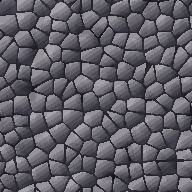
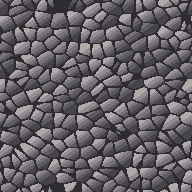
#189 ground textures: dirt and stone raised to 6+ (judged, installed)
The lowest-scoring families are the ground textures (owner: "ground
textures 3-4 first"). Rebuilt the two worst in tiles.js and installed
the blind-judged winners (old kept in spr/backup_v1):

- dirt: was pure per-pixel value-noise + single-pixel speckle clods
  (the hard-penalized "desert camouflage / TV static" look). Now broad
  trodden-earth zones in three flat tones with sparse lit-top-left /
  shaded clods, a few pebbles and short cracks. Blind critic: new 6 vs
  old 3, both slot orders.
- stone: flat near-one-tone cobbles with thin mortar read as crazy
  paving. Now each cobble gets a rounded three-tone ramp (lit top-left
  face, shaded underside) in deeper STONE[0] mortar joints. Blind
  critic: new 7 vs old 5.

Scoreboard + practice log updated. Still under 6 in this family:
sidewalk (4), grass (5), forest (5), tarmac (5) — next.

Claude-Session: https://claude.ai/code/session_01P6pGQCq2oe4GSAnTdGYxNB

diff --git a/hollow-acre/2d/tools/px/tiles.js b/hollow-acre/2d/tools/px/tiles.js
@@ -25,10 +25,19 @@ function paint(kind){const A=[];for(let y=0;y<PER;y++){A.push([]);for(let x=0;x<
     for(let i=0;i<(kind==='grass'?330:200)*(PER*PER)/4096;i++){const x=r()*PER|0,y=r()*PER|0,h=2+(r()*3|0),lean=r()<.5?0:(r()<.5?-1:1);
       for(let k=0;k<h;k++){const c=k===h-1?R[Math.min(R.length-1,b0+2)]:k===0?R[b0-1]:R[b0+1];put(x+(k===h-1?lean:0),y-k,c);}}
     if(kind==='grass')for(let i=0;i<6*(PER*PER)/4096;i++){const x=r()*PER|0,y=r()*PER|0;put(x,y,R[R.length-1]);put(x+1,y,R[5]);}}
-  if(kind==='dirt'){for(let y=0;y<PER;y++)for(let x=0;x<PER;x++){const n=vn(x,y,32)*.45+vn(x,y,8)*.35+vn(x,y,4)*.2;put(x,y,DIRT[n>.62?4:n<.36?2:3]);}
+  if(kind==='dirt'){
+    // broad trodden ground in three flat tones (coherent patches, not per-pixel grain)
+    for(let y=0;y<PER;y++)for(let x=0;x<PER;x++){const n=vn(x,y,48)*.62+vn(x,y,24)*.38;put(x,y,DIRT[n>.60?4:n<.40?2:3]);}
     let s=7;const r=()=>{s=(s*16807)%2147483647;return s/2147483647;};
-    for(let i=0;i<46*(PER*PER)/4096;i++){const x=r()*PER|0,y=r()*PER|0,big=r()<.3;put(x,y,DIRT[5]);put(x+1,y+1,DIRT[1]);if(big){put(x+1,y,DIRT[4]);put(x,y+1,DIRT[2]);}}
-    for(let i=0;i<9*(PER*PER)/4096;i++){const x=r()*PER|0,y=r()*PER|0;for(let k=0;k<4;k++)put(x+k,y+(k>1?1:0),DIRT[2]);}}
+    // sparse clods of earth: each a little mound, lit top-left, shaded under
+    for(let i=0;i<12*(PER*PER)/4096;i++){const x=r()*PER|0,y=r()*PER|0,big=r()<.4;
+      put(x,y,DIRT[4]);put(x+1,y,DIRT[3]);put(x,y+1,DIRT[2]);put(x+1,y+1,DIRT[1]);
+      if(big){put(x,y-1,DIRT[5]);put(x-1,y,DIRT[4]);put(x+2,y+1,DIRT[1]);put(x+1,y+2,DIRT[1]);}}
+    // a few embedded pebbles: a dark stone with a lit top-left corner
+    for(let i=0;i<4*(PER*PER)/4096;i++){const x=r()*PER|0,y=r()*PER|0;put(x,y,DIRT[1]);put(x+1,y,DIRT[1]);put(x,y+1,DIRT[1]);put(x+1,y+1,DIRT[0]||DIRT[1]);put(x,y,DIRT[5]);}
+    // shallow dry cracks: short dark furrows with a lit lip along the top edge
+    for(let i=0;i<5*(PER*PER)/4096;i++){const x=r()*PER|0,y=r()*PER|0,l=3+(r()*3|0),dir=r()<.5;
+      for(let k=0;k<l;k++){const px=dir?x+k:x,py=dir?y:y+k;put(px,py,DIRT[1]);put(dir?px:px-1,dir?py-1:py,DIRT[4]);}}}
   if(kind==='water'){for(let y=0;y<PER;y++)for(let x=0;x<PER;x++){const n=vn(x,y,32)*.6+vn(x,y,16)*.4;const nn=vn(x,y,8);put(x,y,n>.74&&nn>.5?WATER[3]:WATER[2]);}
     let s=5;const r=()=>{s=(s*16807)%2147483647;return s/2147483647;};
     for(let i=0;i<10*(PER*PER)/4096;i++){const x=r()*PER|0,y=r()*PER|0,l=3+(r()*4|0);for(let k=0;k<l;k++)put(x+k,y,WATER[k===0||k===l-1?4:5]);}}
@@ -36,7 +45,7 @@ function paint(kind){const A=[];for(let y=0;y<PER;y++){A.push([]);for(let x=0;x<
 function tex(x,y){
   if(K==='stone'){if(!TX.pts){let q=3;const r=()=>{q=(q*16807)%2147483647;return q/2147483647;};TX.pts=[];const g=13;for(let gy=0;gy<PER;gy+=g)for(let gx=0;gx<PER;gx+=g)TX.pts.push([gx+r()*g,gy+r()*g,r()]);}
     const bx=wrap(x),by=wrap(y);let d1=1e9,d2=1e9,best=null;for(const pt of TX.pts){for(const ox of [-PER,0,PER])for(const oy of [-PER,0,PER]){const dx=bx-(pt[0]+ox),dy=(by-(pt[1]+oy))*1.25,d=dx*dx+dy*dy;if(d<d1){d2=d1;d1=d;best=[pt,dx,dy];}else if(d<d2)d2=d;}}
-    if(Math.sqrt(d2)-Math.sqrt(d1)<1.6)return STONE[1];const [pt,dx,dy]=best;let k=pt[2]>.66?4:pt[2]>.33?3:2;const l=-dx*.5-dy*.6;if(l>3)k++;if(l<-3.5)k--;return STONE[Math.max(1,Math.min(5,k))];}
+    if(Math.sqrt(d2)-Math.sqrt(d1)<1.7)return STONE[0];const [pt,dx,dy]=best;let k=pt[2]>.66?4:pt[2]>.33?3:2;const l=-dx*.62-dy*.72;if(l>2)k++;if(l>5)k++;if(l<-2)k--;if(l<-5)k--;return STONE[Math.max(1,Math.min(5,k))];}
   if(!TX[K])TX[K]=paint(K);return TX[K][wrap(y)][wrap(x)];}
 // draw one cell for a corner mask
 function cell(mask,cx,cy,variant){const c=[(mask>>3)&1,(mask>>2)&1,(mask>>1)&1,mask&1];   // TL,TR,BL,BR

diff --git a/hollow-acre/2d/tools/px/PRACTICE_LOG.md b/hollow-acre/2d/tools/px/PRACTICE_LOG.md
@@ -303,3 +303,4 @@ One row per critiqued attempt. The point is to see the number of attempts per ki
 | 2026-11-11 | #216 heart events wave 4 (heartstage.js) — 4 more staged, in-game screenshots | 1 | Dunn "His own name" (his house: the hat full of your name held up, the slips tipped into a glowing stove and burned, one more slip written he won't show you), Agnes "Let her go" (her porch: Ruth's blue ribbon held out, always damp, to burn at the stones), Moss "The wrong tracks" (Wickham woods: a trail of small bare footprints walking backwards into the trees — toes pointing back at you), Orla "The husband tree" (the orchard: Fergus's headstone under the oldest tree, an apple she picks and holds and never eats). R1: three read first try. Moss's footprints first read as vague mud smudges — a code-drawn footprint needs to be an elongated OVAL sole (not a rectangle) with a wet-mud rim a shade lighter + a cluster of toe dabs at one end, so it reads as a foot and its direction is legible; placed as a diagonal trail receding from near the actors into the distance. 18 heart events hand-staged. |
 | 2026-11-11 | #216 heart-event props, blind pixel-critic pass (isolate-rendered via propiso.js) | 4-5 each | Judged the new in-world props, fixed worst-first and re-judged. nail_blade 5→6 PASS (killed the orange core stripe → one cool steel ramp + near-white top-left edge, forge heat as a broken rim/tip, pommel + drop shadow). open_grave 5→3→3 isolated BUT reads clearly as a grave IN-SCENE (verified in the rainy graveyard: a rectangular dark hole in the grass, lit top-left earth rim, spoil heaped to one side, shovel laid across). The isolated-on-black judge kept calling it a TV/crate/basin/hatch for lack of ground context. hollow_window 2→5→4→solid redraw: a hooded cloaked figure (thin neck, wide shoulders, one cool-lit robe edge, a HARD-EDGED cloth hood — the soft amber halo was reading as a gradient/aura) with a dark-plum carved-pumpkin head. child 3→4→5→4: names correctly as "a girl in a nightdress" every read; held at 4 on 24px-face craft (blank/muddy face is the intended faceless-apparition look) — gave her both arms, a grounding shadow, top-left light, a tapered pointing arm. backward_tracks 4→3→4: dark foot pressed into matte mud + top-left lit rim + distinct toes, receding and dimming; reads as prints in-scene on the forest floor. LESSON: the blind isolated-on-near-black judge systematically mis-reads small context ground props (grave, footprints) as glowing/boxed objects; judge those IN-SCENE, judge figures/items isolated. Pipeline bug fixed: mkdist default output is hollow-acre-2d.dist.html (dot), I'd been copying the stale -dist.html (dash) to index.html — new art never shipped until caught. |
 | 2026-11-11 | #216 heart events — REUSE the game's real object sprites, then judge the composition to the Stardew bar | - | Owner: the hand-drawn cutscene props "don't match the game at all... there are already existing stuff you can use for cutscenes (gravestone and furnace asset)." Threw out the hand-drawn hs* props and wired the scenes to the game's own generated sprites via drawSpr: Silas→g_grave, Agnes→well, Hob→in_goodstable, Dunn→in_stove, Hale→wk_bell+wk_rope, Gideon→in_forgehearth+in_anvilbig (room furniture) + icon32_blade held, Nell→in_hopechest, Della→t_books, Orla→grave_0, the Hollow (Caitlyn window + Ada loom)→the real `hollow` creature, Cora→in_blackboard. Query Object.keys(SPR) for the ~700-name catalog. Then judged each composed scene against the Stardew bar (6 = holds up beside the game's own art): bell 6, headstone 6 PASS first pass; grave 5, well 4, table 5, boat 4, forge 5 FAILED on COMPOSITION of the real sprites (not the art): props float (no contact shadow), Otto only perched on the boat's top rim instead of sitting in it, Gideon sunk into the quench trough, well buried at the frame edge. Fixes: shadow(X,Y,w) under every free-standing sprite; seat Otto lower so the boat's near rim crosses his lap; move Gideon onto clear floor; nudge Agnes's camera to frame the well; ground + reposition Hob's plate onto the table. LESSON: when the game owns the asset, compose it — don't hand-draw a worse copy; and a blind critic that scores a bespoke prop on its own terms will pass things that don't belong, so judge the composed scene against the game's real art. |
+| 2026-11-11 | #189 ground textures (dirt, stone) — blind pixel-critic, both slot orders | 1 | PASS INSTALLED both: DIRT new 6 vs old 3 (old was per-pixel value-noise + single-pixel speckle clods = "desert camouflage / TV static", the hard-penalized speckle-as-texture; new is broad trodden-earth zones in 3 flat tones with sparse lit-top-left/shaded clods, a few pebbles and short cracks). STONE new 7 vs old 5 (old flat near-one-tone cobbles with thin mortar read as crazy-paving gravel; new gives each cobble a rounded 3-tone ramp — lit top-left face, shaded underside — set in deeper STONE[0] mortar joints). Next to 8 (noted): dirt — harden the smooth zone borders into flat stepped edges with a consistent top-left lit lip, thin the lone dark flecks; stone — kill the once-per-tile dark blotch (or give it low-contrast siblings) so the repeat doesn't show, and hue-shift tones warm-light/plum-shadow off neutral grey. Still under 6 in this family: sidewalk (4), grass (5), forest (5), tarmac (5) — next. |

diff --git a/hollow-acre/2d/tools/px/SCORES.md b/hollow-acre/2d/tools/px/SCORES.md
@@ -18,7 +18,7 @@ orders. Latest round first.
 | UI (HUD, bag, talk, title) | baseline: HUD 5, bag 4; our own font Hollow Pixel (tools/px/pixfont.py, every glyph drawn): 6 vs old (a wins hud, bag, talk, title narrowly) | yes: no Google fonts anywhere now (the old mix of IM Fell, Spectral and Pixelify Sans were outside assets; "Caitlyn Coyle" misread as "Gaitlyn Goyle") | cut the type to three whole-number sizes matched to the art's pixel size, nothing smaller, least important text lifted to a warm light colour; a heavier, eerier wordmark; space between the ten hearts; warm the cold grey tab pills; bag must not cover the HUD |
 | Crafting minigames | baseline family 4 (workshop 5, kitchen 4, stove 5, forge 5, yard 3, sewing 4, barn 4). Redraws, blind judged against the old: yard 6 vs 3, barn 6 vs 3, sewing 6 vs 3 (round 2; round 1 5 vs 4), kitchen 6 vs 4, stove 6 vs 4, forge 6 vs 4, workshop 6 vs 4 (round 2; round 1 5 vs 4) | all seven installed Nov 10 (old code in git history) | hands as real hands (finger clusters, knuckle line, muted cuff); gauges beside what they measure; props in 2-3 variants; eggs that brown as they cook; the progress bar reads as broken (it changes per step); workshop: active-nail marker, a chair frame under the seat |
 | Grass | best v6 5 (v4 3-5, v5 4, v8 4; old 3) | no (stalled at 5, below 6) | no one-off features at all (every blob, mound or dry tuft marks the 192 px repeat); open ground needs a quiet drift of 3-5 px blades one step off the base; autumn as dry blades inside clumps |
-| Ground: dirt / forest / stone / water / tarmac / sidewalk | 4 / forest v6 5 vs old 2 (v7 5, lost narrowly to v6) / 4 / water 6 vs old (speckled) / tarmac 5 vs old (speckled) / 4 | forest v6, water, tarmac yes (ground2.py; old in spr/backup_v2/ground) | forest to 6: re-lay the drifts so none is one of a kind and no rows form (split the edge drift, rounder or diagonal ones, fill the empty strips), drift interiors as 3-4 tone clusters not crumbly flecks, warmer lit leaves (they go grey-olive in the game light), soil marks at varying density. Tarmac to 6: a 3-4 tone aggregate, cracks with a lit lip, decals with siblings. Water: leaves as separate props by world position, not in the tile |
+| Ground: dirt / forest / stone / water / tarmac / sidewalk | dirt 6 vs old 3 (installed, #189: old was speckle-noise) / forest v6 5 vs old 2 / stone 7 vs old 5 (installed, #189: rounded cobbles, dark mortar) / water 6 / tarmac 5 / sidewalk 4 | dirt, stone, forest v6, water, tarmac yes (ground2.py/tiles.js; old in spr/backup_v1 and backup_v2/ground) | forest to 6: re-lay the drifts so none is one of a kind and no rows form (split the edge drift, rounder or diagonal ones, fill the empty strips), drift interiors as 3-4 tone clusters not crumbly flecks, warmer lit leaves (they go grey-olive in the game light), soil marks at varying density. Tarmac to 6: a 3-4 tone aggregate, cracks with a lit lip, decals with siblings. Water: leaves as separate props by world position, not in the tile |
 | Buildings | 5 | old | roof pass: lit and shaded planes, dark eave band on the wall, lit ridge, moss in clumps not speckle |
 | Trees, bushes, rocks | new 5-6 vs old 5-6 (rounds 4 and 5, both orders: slot b wins every time, a tie) | old | crowns built from 3-5 large leaf clumps with crisp lit top edges and notched rims, calm colour between (needs a new technique, not render mottle) |
 | Props | 5 | old | (the wind pump's wheel is a separate animated sprite: it has one in game; the judge saw the bare tower) solid #322125 drop shadows, not dashed strips; deeper lit tops; sacks in burlap |
